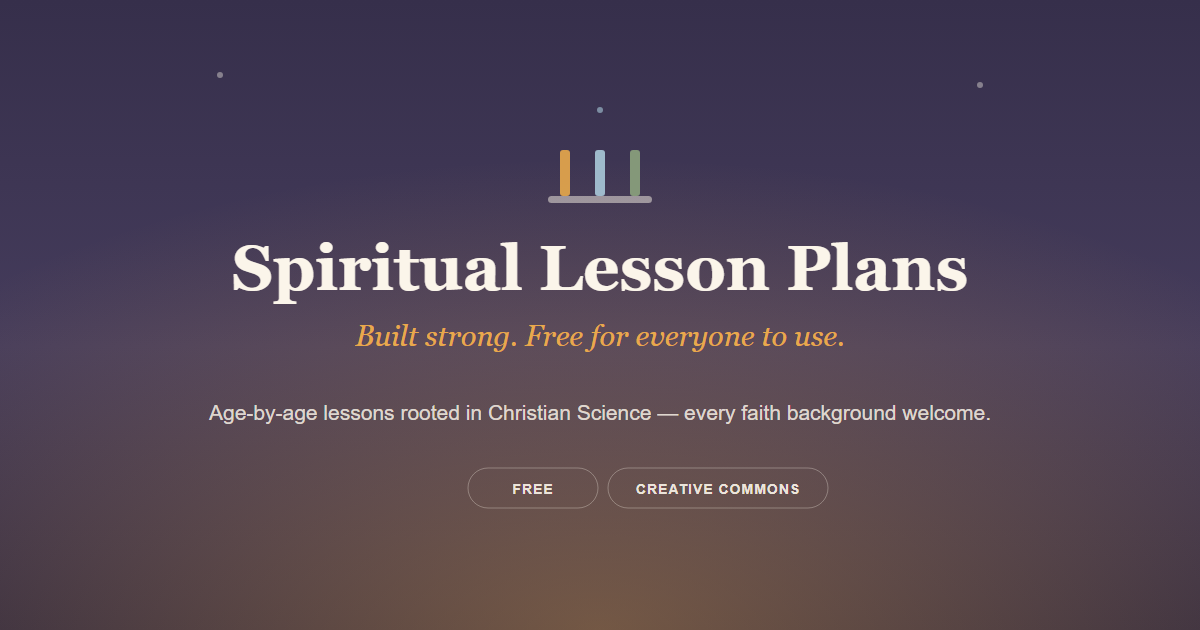
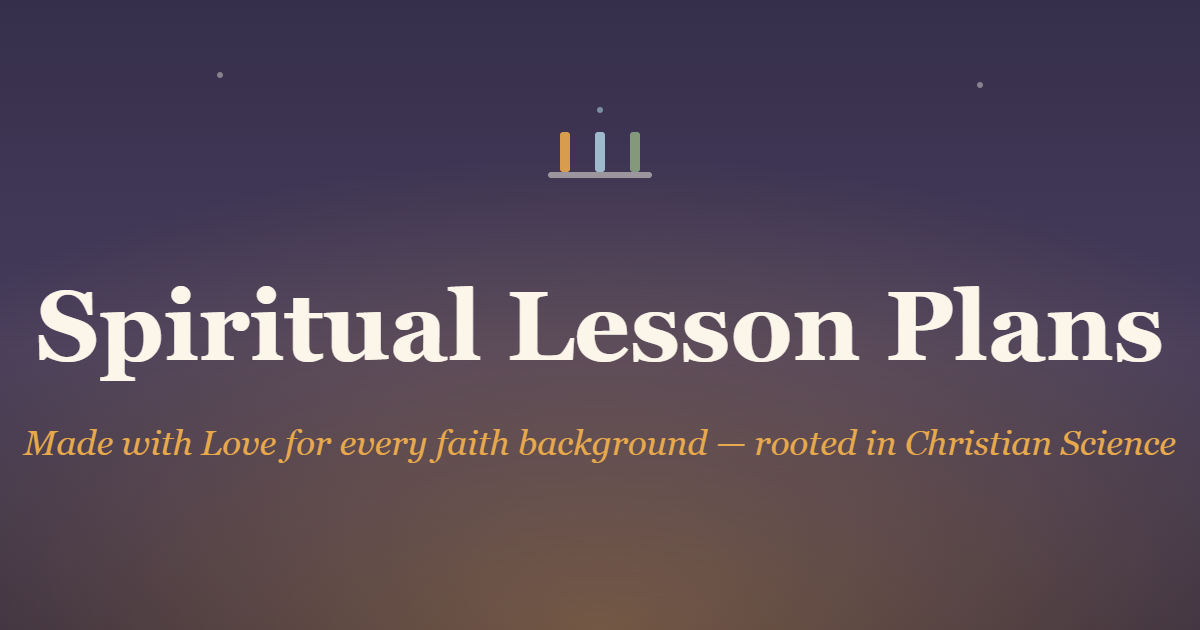
Bigger social share graphic, new tagline, and site-wide every-age reframe
- Redesign og-image to two large, bold lines that stay legible as a
  thumbnail: "Spiritual Lesson Plans" / "Made with Love for every faith
  background — rooted in Christian Science"
- Homepage share preview title now reads "Deep spiritual growth meets
  modern educational design."
- Replace "teens"/"teenagers"/"high schoolers" in whole-site copy (titles,
  meta descriptions, JSON-LD, hero, About, For Mentors) with age-inclusive
  language, since lessons are already banded 5-8 through 21+. Per-lesson
  age-band labels (e.g. "Teen") are unchanged — those correctly identify
  a specific band.
- Fix stale "Thirteen" lesson count on /lessons to the actual 16

diff --git a/index.html b/index.html
@@ -3,24 +3,24 @@
 <head>
 <meta charset="UTF-8">
 <meta name="viewport" content="width=device-width, initial-scale=1.0">
-<title>Spiritual Lesson Plans — Free Sunday School &amp; youth lessons for teens</title>
-<meta name="description" content="Free, interactive spiritual lesson plans for teenagers — built for Christian Science Sunday School, youth groups, and any mentor. Rooted in Christian Science, open to every faith background. No cost, no account, Creative Commons.">
+<title>Spiritual Lesson Plans — Free Sunday School &amp; youth lessons for every age</title>
+<meta name="description" content="Free, interactive spiritual lesson plans for every age — from young children through adults — built for Christian Science Sunday School, youth groups, and any mentor. Rooted in Christian Science, open to every faith background. No cost, no account, Creative Commons.">
 <meta name="robots" content="index, follow, max-snippet:-1, max-image-preview:large, max-video-preview:-1">
 <meta name="msvalidate.01" content="986E29A0E95491E5807A1C79248D0406" />
-<meta name="keywords" content="Christian Science Sunday School, Sunday School lessons for teens, spiritual lesson plans, youth group lessons, free teen Bible study alternative, Christian Science lessons, teen mentoring curriculum">
+<meta name="keywords" content="Christian Science Sunday School, age-by-age Sunday School curriculum, spiritual lesson plans for kids and teens, youth group lessons, free Christian Science lessons, spiritual mentoring curriculum for every age">
 <link rel="canonical" href="https://www.spirituallessonplans.org/">
 <meta property="og:type" content="website">
 <meta property="og:site_name" content="Spiritual Lesson Plans">
 <meta property="og:url" content="https://www.spirituallessonplans.org/">
-<meta property="og:title" content="Spiritual Lesson Plans — Free Sunday School &amp; youth lessons for teens">
-<meta property="og:description" content="Free, interactive spiritual lesson plans for teenagers — built for Christian Science Sunday School, youth groups, and any mentor. Rooted in Christian Science, open to every faith background. No cost, no account, Creative Commons.">
+<meta property="og:title" content="Deep spiritual growth meets modern educational design.">
+<meta property="og:description" content="Free, interactive spiritual lesson plans for every age — from young children through adults — built for Christian Science Sunday School, youth groups, and any mentor. Rooted in Christian Science, open to every faith background.">
 <meta property="og:image" content="https://www.spirituallessonplans.org/assets/img/og-image.png">
 <meta property="og:image:width" content="1200">
 <meta property="og:image:height" content="630">
 <meta property="og:image:alt" content="Spiritual Lesson Plans">
 <meta name="twitter:card" content="summary_large_image">
-<meta name="twitter:title" content="Spiritual Lesson Plans — Free Sunday School &amp; youth lessons for teens">
-<meta name="twitter:description" content="Free, interactive spiritual lesson plans for teenagers — built for Christian Science Sunday School, youth groups, and any mentor. Rooted in Christian Science, open to every faith background. No cost, no account, Creative Commons.">
+<meta name="twitter:title" content="Deep spiritual growth meets modern educational design.">
+<meta name="twitter:description" content="Free, interactive spiritual lesson plans for every age — from young children through adults — built for Christian Science Sunday School, youth groups, and any mentor. Rooted in Christian Science, open to every faith background.">
 <meta name="twitter:image" content="https://www.spirituallessonplans.org/assets/img/og-image.png">
 <meta name="twitter:image:alt" content="Spiritual Lesson Plans">
 <meta name="theme-color" content="#FFFFFF">
@@ -41,7 +41,7 @@
       "name": "Spiritual Lesson Plans",
       "alternateName": "Christian Science Sunday School Lesson Plans",
       "url": "https://www.spirituallessonplans.org/",
-      "description": "Free, interactive spiritual lesson plans for teenagers — for Christian Science Sunday School, youth groups, and any mentor. Rooted in Christian Science, open to every faith background.",
+      "description": "Free, interactive spiritual lesson plans for every age — for Christian Science Sunday School, youth groups, and any mentor. Rooted in Christian Science, open to every faith background.",
       "inLanguage": "en",
       "isAccessibleForFree": true,
       "license": "https://creativecommons.org/licenses/by-sa/4.0/",
@@ -52,14 +52,14 @@
       "@id": "https://www.spirituallessonplans.org/#org",
       "name": "Spiritual Lesson Plans",
       "url": "https://www.spirituallessonplans.org/",
-      "description": "A free, open collection of interactive spiritual lesson plans for anyone mentoring teenagers — Sunday School teachers, youth leaders, parents, and mentors.",
+      "description": "A free, open collection of interactive spiritual lesson plans for anyone mentoring young people of any age — Sunday School teachers, youth leaders, parents, and mentors.",
       "knowsAbout": [
         "Christian Science",
         "Sunday School",
         "youth ministry",
-        "teen mentoring",
+        "spiritual mentoring",
         "spiritual formation",
-        "adolescent spiritual development"
+        "age-by-age spiritual education"
       ],
       "logo": "https://www.spirituallessonplans.org/assets/img/og-image.png"
     },
@@ -67,7 +67,7 @@
       "@type": "CollectionPage",
       "@id": "https://www.spirituallessonplans.org/#webpage",
       "url": "https://www.spirituallessonplans.org/",
-      "name": "Spiritual Lesson Plans — Free Sunday School & youth lessons for teens",
+      "name": "Spiritual Lesson Plans — Free Sunday School & youth lessons for every age",
       "isPartOf": { "@id": "https://www.spirituallessonplans.org/#website" },
       "about": { "@id": "https://www.spirituallessonplans.org/#org" },
       "inLanguage": "en",
@@ -75,7 +75,7 @@
     },
     {
       "@type": "ItemList",
-      "name": "Spiritual lesson plans for teenagers",
+      "name": "Spiritual lesson plans for every age",
       "description": "Free, interactive lesson plans for Sunday School, youth groups, and one-to-one mentoring.",
       "numberOfItems": 16,
       "itemListOrder": "https://schema.org/ItemListOrderDescending",
@@ -154,7 +154,7 @@
     <div class="hero-inner">
       <h1><span class="word" style="--i:0">You</span> <span class="word" style="--i:1">are</span> <span class="word" style="--i:2">already</span> <span class="word" style="--i:3">whole,</span> <span class="word" style="--i:4">already</span> <span class="word" style="--i:5">loved.</span></h1>
       <p class="hero-gloss">Nothing about you is missing, broken, or waiting to be fixed.</p>
-      <p class="subhead">Step-by-step lesson plans for real conversations with high schoolers about identity, belonging, purpose, and worth &mdash; built for any mentor, teacher, parent, or supporter.</p>
+      <p class="subhead">Step-by-step lesson plans for real conversations with young people at every age and stage about identity, belonging, purpose, and worth &mdash; built for any mentor, teacher, parent, or supporter.</p>
       <div class="hero-ctas">
         <a href="/lessons" class="btn btn-gold">Explore the lessons</a>
       </div>
@@ -187,12 +187,12 @@
   </a>
 </header>
 
-<!-- The headline speaks to a teenager; this speaks to whoever stumbled in
-     without context and needs to know what the site actually is. -->
+<!-- The headline speaks personally, to whoever's reading it at whatever age; this speaks to
+     whoever stumbled in without context and needs to know what the site actually is. -->
 <section class="statement" id="start">
   <div class="wrap">
     <p class="eyebrow">What this is, plainly</p>
-    <p class="statement-lead">A free library of spiritual lesson plans anyone can pick up &mdash; a parent, a mentor, a Sunday School teacher, an older sibling &mdash; and use to have one real, unhurried conversation with a high schooler about the things that matter. Rooted in Christian Science, and built from the start to be adapted by any faith.</p>
+    <p class="statement-lead">A free library of spiritual lesson plans anyone can pick up &mdash; a parent, a mentor, a Sunday School teacher, an older sibling &mdash; and use to have one real, unhurried conversation with a young person about the things that matter. Rooted in Christian Science, and built from the start to be adapted by any faith.</p>
     <p class="statement-tail"><a href="/what-we-believe" class="link-more">See what we believe, and why &rarr;</a></p>
   </div>
 </section>
@@ -202,7 +202,7 @@
     <div class="section-head reveal">
       <p class="eyebrow">Why this exists</p>
       <h2>Young people can tell when they're being talked down to.</h2>
-      <p class="lead">So these lessons don't. They take a teenager's questions seriously, give them something real to do, and never make belief the price of admission.</p>
+      <p class="lead">So these lessons don't. They take a young person's questions seriously, give them something real to do, and never make belief the price of admission.</p>
     </div>
     <div class="pillars-grid">
       <div class="pillar reveal">

diff --git a/lessons.html b/lessons.html
@@ -3,23 +3,23 @@
 <head>
 <meta charset="UTF-8">
 <meta name="viewport" content="width=device-width, initial-scale=1.0">
-<title>Free Spiritual Lessons for Teens — Sunday School &amp; youth group plans</title>
-<meta name="description" content="Thirteen free, interactive spiritual lesson plans for teens and adults — ready to lead in Sunday School, youth group, or one-to-one mentoring. Each with timings, discussion prompts, and printable handouts. No cost, no account.">
+<title>Free Spiritual Lessons for Every Age — Sunday School &amp; youth group plans</title>
+<meta name="description" content="Sixteen free, interactive spiritual lesson plans for every age, from young children through adults — ready to lead in Sunday School, youth group, or one-to-one mentoring. Each with timings, discussion prompts, and printable handouts. No cost, no account.">
 <meta name="robots" content="index, follow, max-snippet:-1, max-image-preview:large, max-video-preview:-1">
 <meta name="msvalidate.01" content="986E29A0E95491E5807A1C79248D0406" />
 <link rel="canonical" href="https://www.spirituallessonplans.org/lessons">
 <meta property="og:type" content="website">
 <meta property="og:site_name" content="Spiritual Lesson Plans">
 <meta property="og:url" content="https://www.spirituallessonplans.org/lessons">
-<meta property="og:title" content="Free Spiritual Lessons for Teens — Sunday School &amp; youth group plans">
-<meta property="og:description" content="Thirteen free, interactive spiritual lesson plans for teens and adults — ready to lead in Sunday School, youth group, or one-to-one mentoring. Each with timings, discussion prompts, and printable handouts. No cost, no account.">
+<meta property="og:title" content="Free Spiritual Lessons for Every Age — Sunday School &amp; youth group plans">
+<meta property="og:description" content="Sixteen free, interactive spiritual lesson plans for every age, from young children through adults — ready to lead in Sunday School, youth group, or one-to-one mentoring. Each with timings, discussion prompts, and printable handouts. No cost, no account.">
 <meta property="og:image" content="https://www.spirituallessonplans.org/assets/img/og-image.png">
 <meta property="og:image:width" content="1200">
 <meta property="og:image:height" content="630">
 <meta property="og:image:alt" content="Spiritual Lesson Plans">
 <meta name="twitter:card" content="summary_large_image">
-<meta name="twitter:title" content="Free Spiritual Lessons for Teens — Sunday School &amp; youth group plans">
-<meta name="twitter:description" content="Thirteen free, interactive spiritual lesson plans for teens and adults — ready to lead in Sunday School, youth group, or one-to-one mentoring. Each with timings, discussion prompts, and printable handouts. No cost, no account.">
+<meta name="twitter:title" content="Free Spiritual Lessons for Every Age — Sunday School &amp; youth group plans">
+<meta name="twitter:description" content="Sixteen free, interactive spiritual lesson plans for every age, from young children through adults — ready to lead in Sunday School, youth group, or one-to-one mentoring. Each with timings, discussion prompts, and printable handouts. No cost, no account.">
 <meta name="twitter:image" content="https://www.spirituallessonplans.org/assets/img/og-image.png">
 <meta name="twitter:image:alt" content="Spiritual Lesson Plans">
 <meta name="theme-color" content="#FFFFFF">
@@ -37,8 +37,8 @@
     {
       "@type": "CollectionPage",
       "url": "https://www.spirituallessonplans.org/lessons",
-      "name": "Free Spiritual Lessons for Teens — Sunday School & youth group plans",
-      "description": "Thirteen free, interactive spiritual lesson plans for teenagers and adults — ready to lead in Sunday School, youth group, or one-to-one mentoring.",
+      "name": "Free Spiritual Lessons for Every Age — Sunday School & youth group plans",
+      "description": "Sixteen free, interactive spiritual lesson plans for every age, from young children through adults — ready to lead in Sunday School, youth group, or one-to-one mentoring.",
       "inLanguage": "en",
       "isAccessibleForFree": true,
       "license": "https://creativecommons.org/licenses/by-sa/4.0/"

diff --git a/about.html b/about.html
@@ -46,8 +46,8 @@
         "@type": "EducationalOrganization",
         "name": "Spiritual Lesson Plans",
         "url": "https://www.spirituallessonplans.org/",
-        "description": "A free, open collection of interactive spiritual lesson plans for anyone mentoring teenagers — Sunday School teachers, youth leaders, parents, and mentors.",
-        "knowsAbout": ["Christian Science", "Sunday School", "youth ministry", "teen mentoring"]
+        "description": "A free, open collection of interactive spiritual lesson plans for anyone mentoring young people of any age — Sunday School teachers, youth leaders, parents, and mentors.",
+        "knowsAbout": ["Christian Science", "Sunday School", "youth ministry", "spiritual mentoring for every age"]
       }
     },
     {
@@ -107,7 +107,7 @@
         <p class="eyebrow">The short version</p>
         <h2>Built with the belief that every young person deserves to hear this</h2>
         <p>
-          Spiritual Lesson Plans started as a simple conviction: mentors, teachers, supporters of high schoolers often just need a prompt or a starter-pack of ideas to have conversations about faith, identity, and belonging. These materials shouldn't require a curriculum budget, a denominational badge, or a background in theology. They just require someone willing to sit down and say, plainly, <em>you are already whole</em> &mdash; and mean it.
+          Spiritual Lesson Plans started as a simple conviction: mentors, teachers, supporters of young people often just need a prompt or a starter-pack of ideas to have conversations about faith, identity, and belonging. These materials shouldn't require a curriculum budget, a denominational badge, or a background in theology. They just require someone willing to sit down and say, plainly, <em>you are already whole</em> &mdash; and mean it.
         </p>
         <p>This site is that conversation, written down and made shareable. It draws on Christian Science teaching, adult-learning pedagogy, and research on how younger generations actually want to be taught &mdash; not lectured at, not tested, just met where they are.</p>
       </div>

diff --git a/for-mentors.html b/for-mentors.html
@@ -36,7 +36,7 @@
   "@graph": [
     {
       "@type": "Article",
-      "headline": "How to lead a spiritual lesson with teenagers",
+      "headline": "How to lead a spiritual lesson with a young person",
       "url": "https://www.spirituallessonplans.org/for-mentors",
       "description": "How to facilitate these lessons: the adult-learning pedagogy behind them, and practical guidance for mentors leading young people through spiritual questions.",
       "inLanguage": "en",
